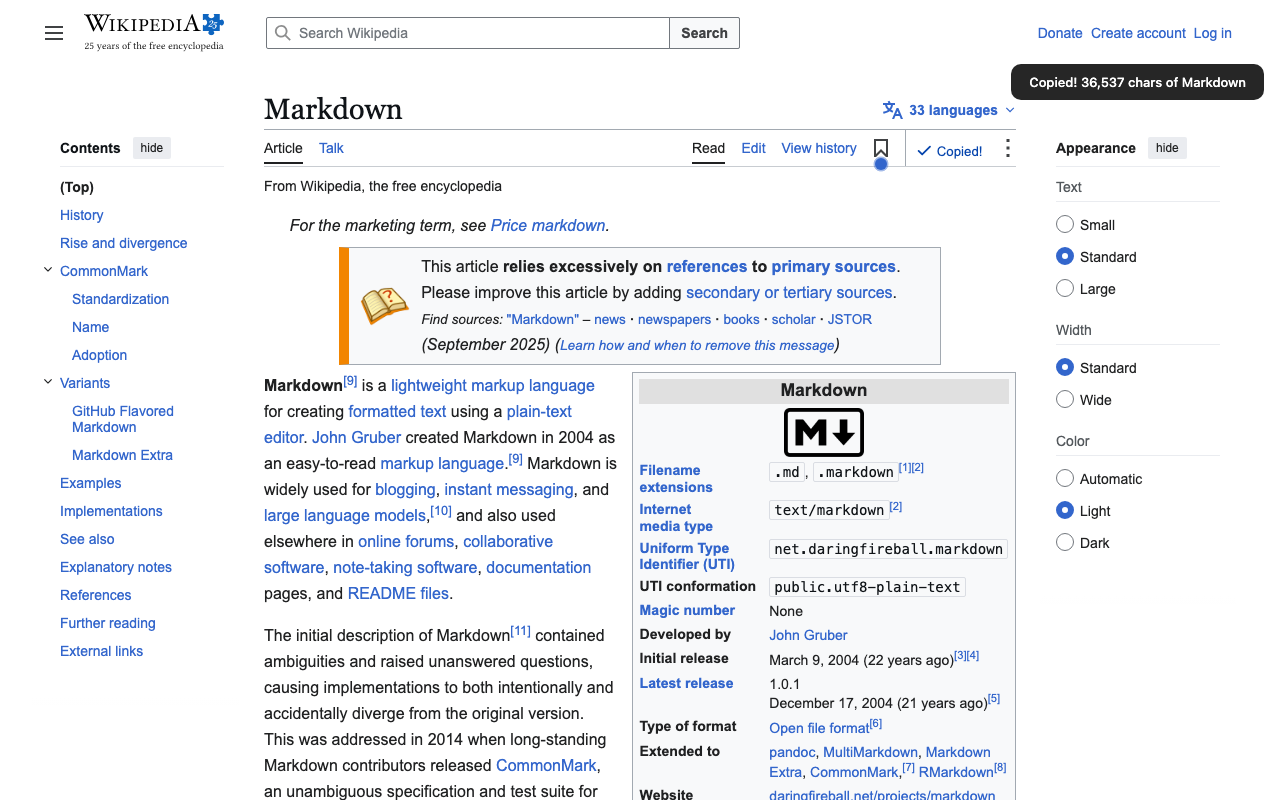
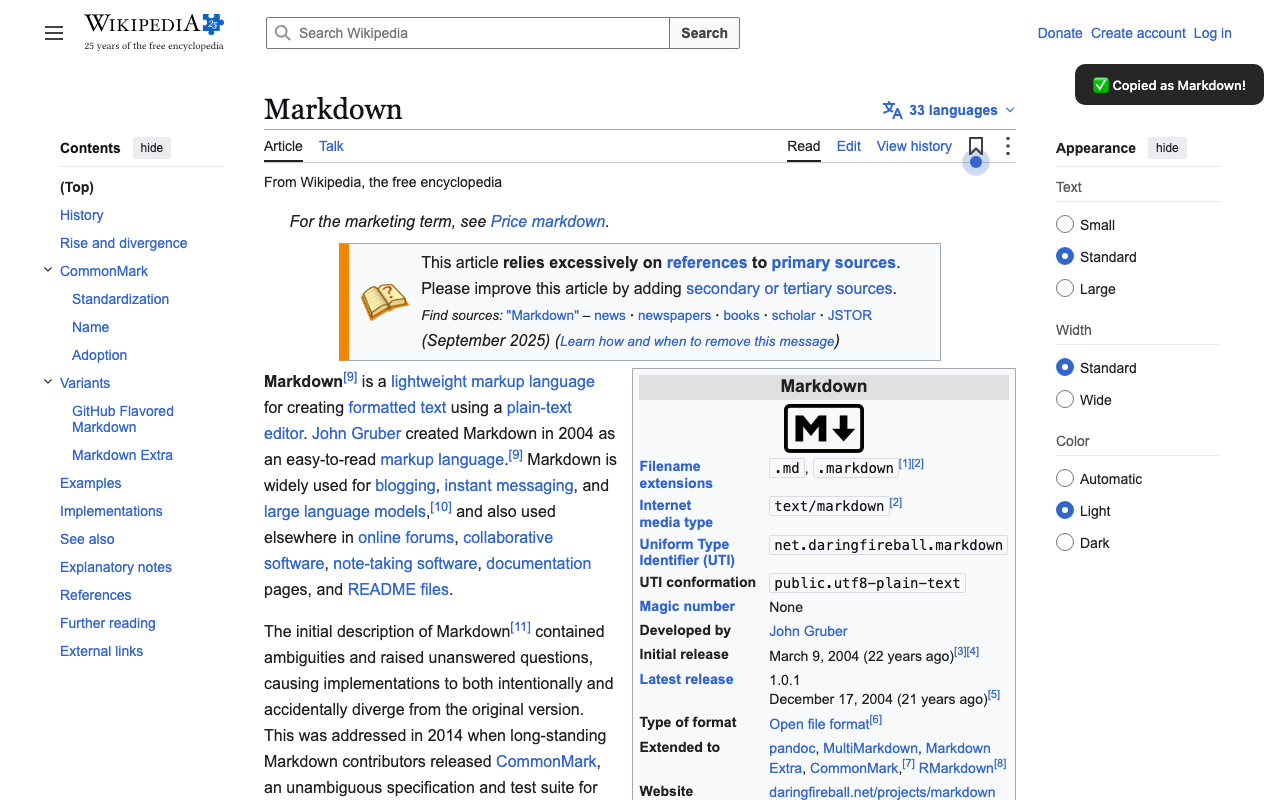
docs: show the extension in the store screenshots
The first two images showed the userscript. The third one now marks where its
excerpt leaves out the infobox. The MDN size matches the current build.

diff --git a/docs/index.html b/docs/index.html
@@ -195,8 +195,8 @@ if (SAFE.has(request.method)) {
                 <tr data-html="342150" data-md="5534">
                   <th scope="row"><a href="https://www.theguardian.com/commentisfree/2022/jul/15/the-guardian-view-on-the-james-webb-telescope-a-window-on-the-unknown">Guardian article</a></th><td class="num">342,150</td><td class="num">5,534</td><td class="num">2%</td>
                 </tr>
-                <tr data-html="88950" data-md="12460">
-                  <th scope="row"><a href="https://developer.mozilla.org/en-US/docs/Web/JavaScript/Reference/Global_Objects/Array/map">MDN reference page</a></th><td class="num">88,950</td><td class="num">12,460</td><td class="num">14%</td>
+                <tr data-html="88961" data-md="12599">
+                  <th scope="row"><a href="https://developer.mozilla.org/en-US/docs/Web/JavaScript/Reference/Global_Objects/Array/map">MDN reference page</a></th><td class="num">88,961</td><td class="num">12,599</td><td class="num">14%</td>
                 </tr>
                 <tr data-html="188288" data-md="40020">
                   <th scope="row"><a href="https://arxiv.org/html/1706.03762v7">arXiv paper</a></th><td class="num">188,288</td><td class="num">40,020</td><td class="num">21%</td>

diff --git a/README.md b/README.md
@@ -95,7 +95,7 @@ Language models read structure better than loose text, and Markdown keeps the st
 | [GitHub issue thread](https://github.com/microsoft/TypeScript/issues/9998) | 936,857 | 36,820 | 4% |
 | [PyPI package](https://pypi.org/project/requests/) | 353,729 | 8,906 | 3% |
 | [Guardian article](https://www.theguardian.com/commentisfree/2022/jul/15/the-guardian-view-on-the-james-webb-telescope-a-window-on-the-unknown) | 342,150 | 5,534 | 2% |
-| [MDN reference page](https://developer.mozilla.org/en-US/docs/Web/JavaScript/Reference/Global_Objects/Array/map) | 88,950 | 12,460 | 14% |
+| [MDN reference page](https://developer.mozilla.org/en-US/docs/Web/JavaScript/Reference/Global_Objects/Array/map) | 88,961 | 12,599 | 14% |
 | [arXiv paper](https://arxiv.org/html/1706.03762v7) | 188,288 | 40,020 | 21% |
 | [Hacker News thread](https://news.ycombinator.com/item?id=8863) | 101,315 | 28,549 | 28% |
 

diff --git a/STORE_LISTING.md b/STORE_LISTING.md
@@ -63,8 +63,8 @@ English
 
 Upload these 3 images from `docs/screenshots/`:
 
-1. `1-wikipedia.png`: a Wikipedia article with the inline button and the success message
-2. `2-github.png`: a GitHub source file with the success message
+1. `1-wikipedia.png`: a Wikipedia article with the success message of the extension
+2. `2-github.png`: a GitHub source file with the success message of the extension
 3. `3-before-after.png`: excerpts of the same Wikipedia article, as a plain copy and as Markdown
 
 All three are real captures of live pages. Do not use generated images.

diff --git a/LIBRARY.md b/LIBRARY.md
@@ -62,6 +62,8 @@ const matcher = createExtractorMatcher({
 
 See `exports` in [package.json](package.json) for the extractors that have a subpath. All other extractors load through `loadExtractor(id)`.
 
+A plain script without a bundler can load `dist/library/browser.js`, which sets the global `CopyAsMarkdown`.
+
 ### Restrict a matcher
 
 | Option | Meaning |
